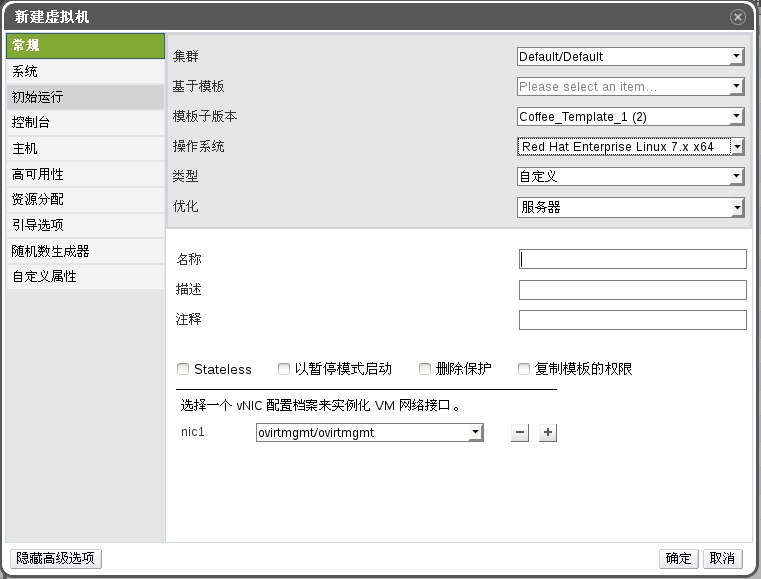
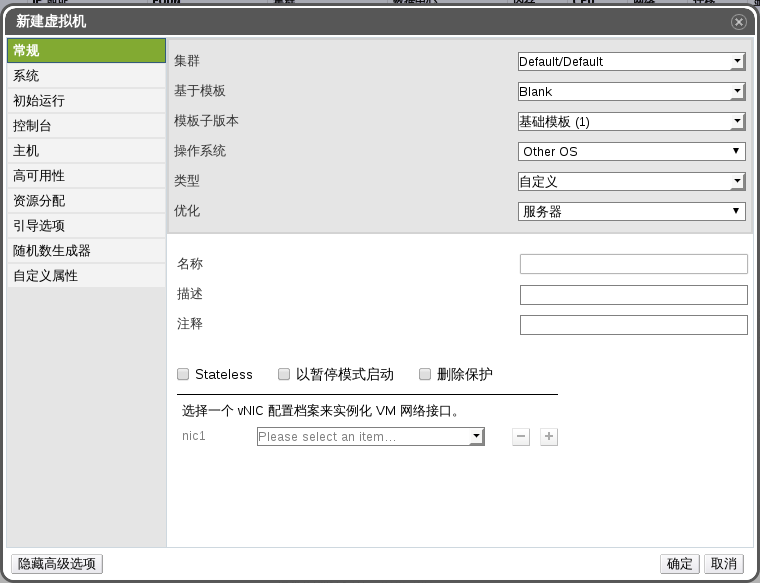
Review admin guide chapter virtual machine section 1 ~ 4.3

diff --git a/administration-guide/虚拟机/基于现成的模板创建虚拟机.md b/administration-guide/虚拟机/基于现成的模板创建虚拟机.md
@@ -1,25 +1,38 @@
 # 基于现成的模板创建虚拟机
 
-*摘要*.
-一旦模板已经配置好磁盘，网络等参数，用户可以使用模板快速的创建虚拟机。
+**摘要**<br/>
+你可以基于模板创建虚拟机。这样允许你创建出来的虚拟机可以已经预包含虚拟机，虚拟网络接口，应用程序和其它的资源。
 
-从模板创建出来的虚拟机取决于模板的配置。如果在系统中仍然有基于某个
-模板创建的虚拟机，那么该模板是不能被删除的。因为这些虚拟机和模板
-有关联关系。但是如果选择从模板克隆虚拟机，那么虚拟机和模板之间的
-就没有这些关联关系。
 
-点击虚拟机标签列出系统中的所有虚拟机。
+> **注意**
+>
+> 从模板创建出来的虚拟机取决于模板的配置。如果在系统中仍然有基于某个
+> 模板创建的虚拟机，那么该模板是不能被删除的。因为这些虚拟机和模板
+> 有关联关系。但是如果选择从模板克隆虚拟机，那么虚拟机和模板之间
+> 就没有这些关联关系。
 
-点击新建虚拟机按钮，打开新建虚拟机窗口。
 
-选择集群，在基于模板下拉菜单中 选择需要的模板。
+**基于模板创建虚拟机**
 
-![从模板创建虚拟机](../images/vm-create-from-temp.png)
+1. 点击**虚拟机**标签列出系统中的所有虚拟机。
 
-输入名称，描述，和注释。 其它保留默认(或者根据需要可以修改)
+2. 点击**新建虚拟机**按钮，打开**新建虚拟机**窗口。
 
-点击确定创建虚拟机。
+3. 选择虚拟机需要运行在的**集群**。
 
-*结果*.
+4. 在**基于模板**下拉菜单中选择需要的模板。
+
+5. 在**基于模板子版本**下拉菜单中选择需要的模板子版本。
+
+6. 输入**名称**，**描述**，和**注释**。 其它保留默认(或者根据需要可以修改)。
+
+7. 选择 **资源分配** 选项卡。
+
+8. 在 **存储分配** 区域中选择 **Thin**。
+
+9. 点击 **OK** 按钮。
+
+
+**结果**<br/>
 虚拟机已经创建好了，在虚拟机列表下会显示出来，用户可以开始使用这个虚拟机了。
 

diff --git a/administration-guide/虚拟机/基于现成的模板复制虚拟机.md b/administration-guide/虚拟机/基于现成的模板复制虚拟机.md
@@ -1,0 +1,37 @@
+# 基于现成的模板复制虚拟机
+
+**摘要**<br/>
+复制虚拟机类似于基于模板的虚拟机，但是，虽然复制的虚拟机也像基于模板创建虚拟机一样集成了模板的属性，但是复制的虚拟机在创建完成后便不再依赖于它创建时基于的模板。
+
+> **注意**
+>
+> 如果你基于饃本创建虚拟机，虚拟机所基于的模板的名称会显示在虚拟机的**编辑虚拟机**窗口的**常规**选项卡信息下。如果你更改了那个模板的名称，虚拟机的**常规**选项卡下的模板信息也会更新。但是，如果你在虚拟化管理中心中删除了那个模板，虚拟机基于的模板会回到原来的名称。
+
+
+**基于现成的模板复制虚拟机**
+
+1. 点击**虚拟机**选项卡。
+
+2. 点击**新建虚拟机**按钮并弹出**新建虚拟机**弹出窗口。
+
+3. 选择虚拟机准备运行在的**集群**。
+
+4. 在**基于模板**下拉框中选择一个模板。
+
+5. 在**基于模板子版本**下拉框中选择一个模板子版本。
+
+6. 输入**名称**，**描述**，和**注释**。 其它保留默认(或者根据需要可以修改)。
+
+7. 选择 **资源分配** 选项卡。
+
+8. 在 **存储分配** 区域中选择 **Clone**。
+
+9. 点击 **OK** 按钮。
+
+> **注意**
+>
+> 复制一台虚拟机可能需要花一些时间。一个模板磁盘的拷贝在此时执行。在这一段时间内，虚拟机的状态先是**磁盘锁定**，然后变为
+> **Down**。
+
+**结果**<br/>
+虚拟机被创建并且显示在了**虚拟机**选项卡的列表中，你现在可以吧用户分配给这台虚拟机，这样用户就可以在虚拟机创建完毕的时候使用该虚拟机了。

diff --git a/administration-guide/虚拟机/EayunOS_支持的虚拟机操作系统.md b/administration-guide/虚拟机/EayunOS_支持的虚拟机操作系统.md
@@ -2,13 +2,17 @@
 
 目前 EayunOS支持以下虚拟机操作系统:
 
+
+**能够当作客户操作系统使用的操作系统**
+
 |操作系统|架构|SPICE 支持|
 |--------|----|----------|
 |Red Hat Enterprise Linux 3(或CentOS 3)|32-bit，64-bit|是|
 |Red Hat Enterprise Linux 4(或CentOS 4)|32-bit，64-bit|是|
 |Red Hat Enterprise Linux 5(或CentOS 5)|32-bit，64-bit|是|
 |Red Hat Enterprise Linux 6(或CentOS 6)|32-bit，64-bit|是|
-|SUSE Linux Enterprise Server 10|32-bit，64-bit|否|
+|Red Hat Enterprise Linux 7(或CentOS 7)|32-bit，64-bit|是|
+|SUSE Linux Enterprise Server 10（在客户操作系统中选择   **Other Linux**）|32-bit，64-bit|否|
 |SUSE Linux Enterprise Server 11|32-bit，64-bit|否|
 |Ubuntu 12.04 (Precise Pangolin LTS)|32-bit，64-bit|是|
 |Ubuntu 12.10 (Quantal Quetzal|32-bit，64-bit|是|
@@ -18,8 +22,10 @@
 |Windows 7|32-bit，64-bit|是|
 |Windows 8|32-bit，64-bit|否|
 |Windows Server 2003 Service Pack 2 and newer|32-bit，64-bit|是|
+|Windows Server 2003 R2|32-bit，64-bit|是|
 |Windows Server 2008|32-bit，64-bit|是|
 |Windows Server 2008 R2|64-bit|是|
+|Windows Server 2012|64-bit|否|
 |Windows Server 2012 R2|64-bit|否|
 
 对 Windows 8 和 Windows 2012 来讲，默认使用 RDP(Remote Desktop Protocol)
@@ -30,6 +36,6 @@ SPICE 暂时得不到最好的体验。
 >
 > 因为由于 Red Hat Enterprise Linux 3 and Red Hat Enterprise Linux 4
 > 是32位内核，没有 ACPI
-> 的支持，所以用户在门户直接点击关闭的时候肯能会出现
-> 问题，这个时候需要用户右击断电来关机。
+> 的支持，所以用户在门户直接点击关闭的时候可能会出现
+> 问题，这个时候需要用户右击**断电**来关机。
 

diff --git a/administration-guide/虚拟机/创建一台虚拟机.md b/administration-guide/虚拟机/创建一台虚拟机.md
@@ -1,0 +1,31 @@
+# 基于现成的模板创建虚拟机
+
+**摘要**<br/>
+你可以基于一个空的模板创建虚拟机，并且设置它的所有属性。
+
+
+**创建一台虚拟机**
+
+1. 点击虚拟机标签列出系统中的所有虚拟机。
+
+2. 点击新建虚拟机按钮，打开新建虚拟机窗口。
+
+![从模板创建虚拟机](../images/vm-create-from-temp.png)
+
+**新建虚拟机窗口**
+
+3. 在**常规**选项卡中，填入**名称**和** 操作系统**信息，你可以默认不修改其他的属性。
+
+4. 或者，在**第一次运行**，**控制台**，**主机**，**资源分配**，**启动选项**，**随机数生成器**，和**自定义属性**的选项卡中设置你的虚拟机参数。
+
+5. 点击 **OK** 来创建虚拟机并且关闭窗口。
+
+   然后**新建虚拟机*引导操作**弹出框弹出来了。
+
+6. 使用引导操作按钮来完成虚拟机的配置或者选择**稍后配置**。
+
+***结果**
+
+虚拟机已经创建好了，在虚拟机列表下会显示出来，并且虚拟机的状态为
+**Down**。在你使用该虚拟机之前，请给该虚拟机分配至少一个虚拟网卡和虚拟磁盘，并且安装一个操作系统。
+

diff --git a/administration-guide/SUMMARY.md b/administration-guide/SUMMARY.md
@@ -197,11 +197,12 @@
        * [为特定资源删除管理员或者用户角色](EayunOS存储域/为特定资源删除管理员或者用户角色.md)
 * [虚拟机](虚拟机/虚拟机.md)
    * [虚拟机介绍](虚拟机/虚拟机介绍.md)
-   * [OVIRT支持的虚拟机操作系统](虚拟机/OVIRT支持的虚拟机操作系统.md)
+   * [EayunOS 支持的虚拟机操作系统](虚拟机/EayunOS_支持的虚拟机操作系统.md)
    * [虚拟机性能参数](虚拟机/虚拟机性能参数.md)
    * [创建虚拟机](虚拟机/创建虚拟机.md)
+       * [创建一台虚拟机](虚拟机/创建一台虚拟机.md)
        * [基于现成的模板创建虚拟机](虚拟机/基于现成的模板创建虚拟机.md)
-       * [使用空白模板创建虚拟机](虚拟机/使用空白模板创建虚拟机.md)
+       * [基于现成的模板复制虚拟机](虚拟机/基于现成的模板复制虚拟机.md)
        * [创建、编辑虚拟机窗口设置解释](虚拟机/创建、编辑虚拟机窗口设置解释.md)
            * [虚拟机常规设置解释](虚拟机/虚拟机常规设置解释.md)
            * [虚拟机系统设置解释](虚拟机/虚拟机系统设置解释.md)

diff --git a/administration-guide/虚拟机/虚拟机性能参数.md b/administration-guide/虚拟机/虚拟机性能参数.md
@@ -1,6 +1,9 @@
 # 虚拟机性能参数
 
-目前 EayunOS管理系统支持的虚拟机参数如下表:
+目前 EayunOS 管理系统支持的虚拟机参数如下表:
+
+
+**支持的虚拟机参数**
 
 |参数|数量|注意|
 |----|----|----|
